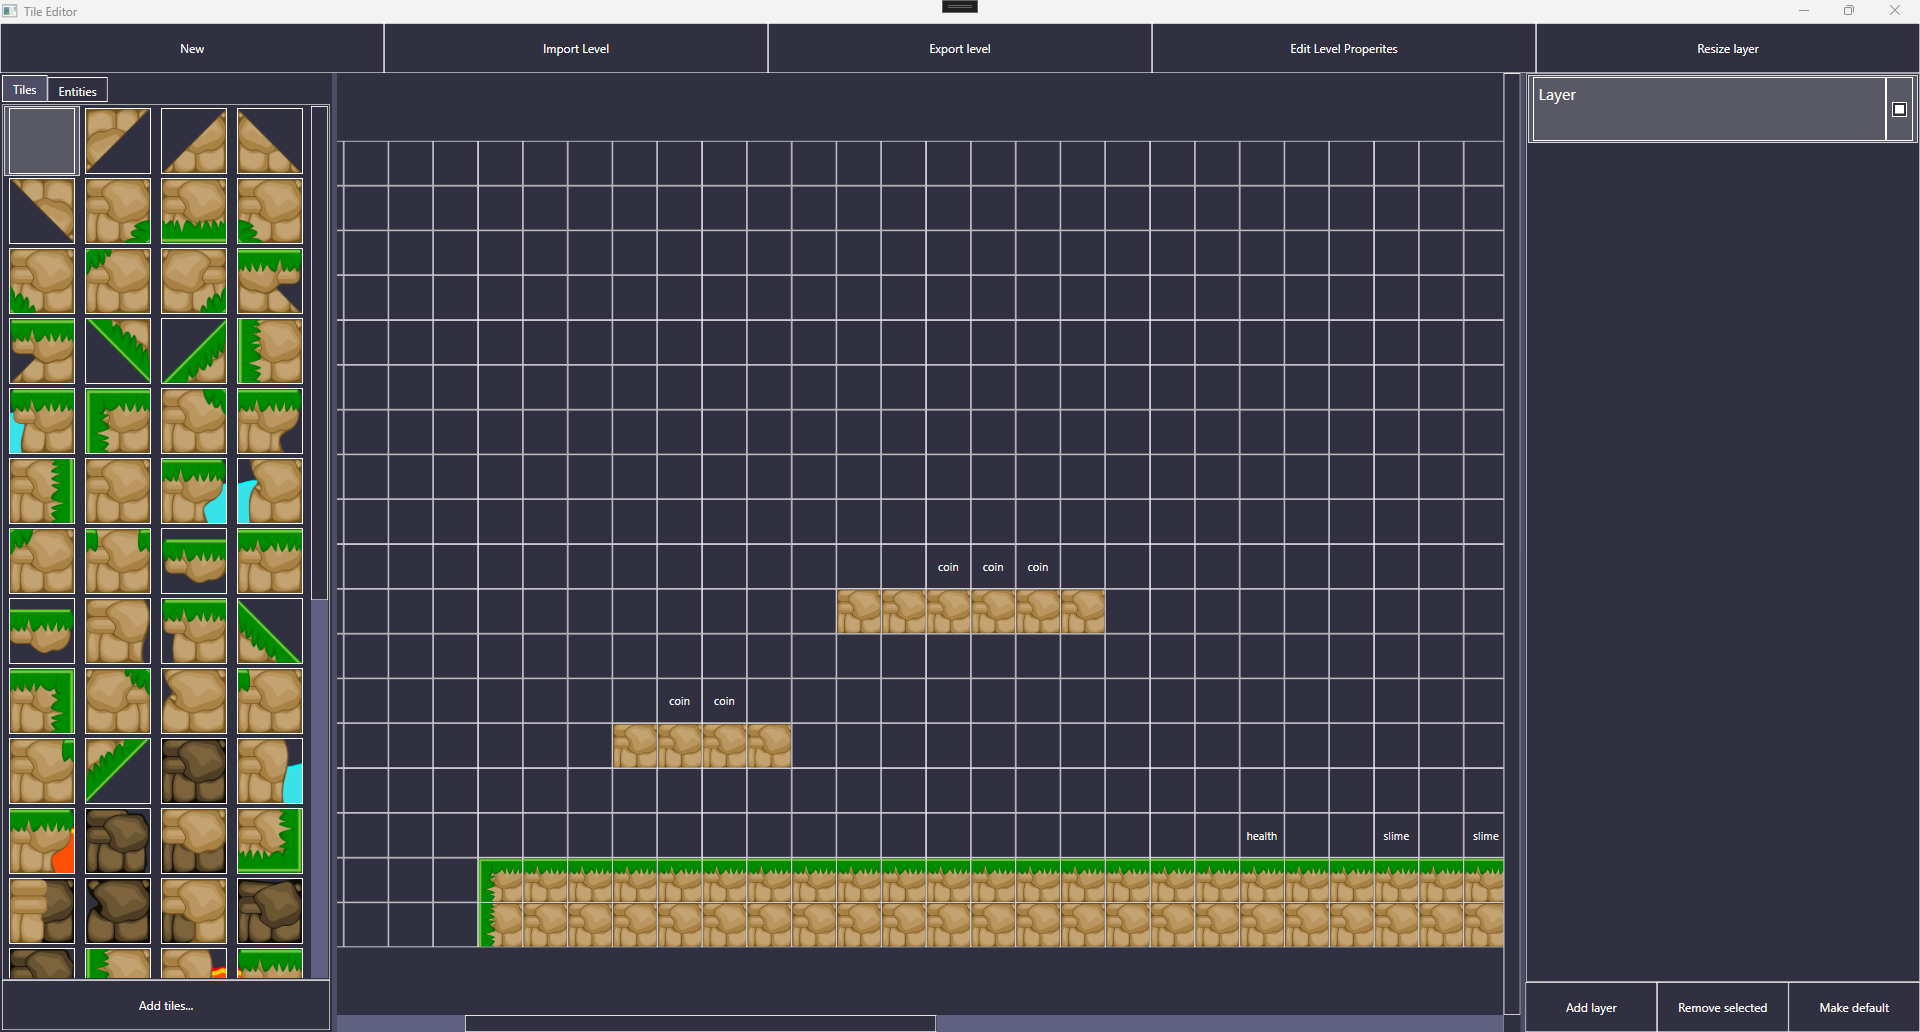
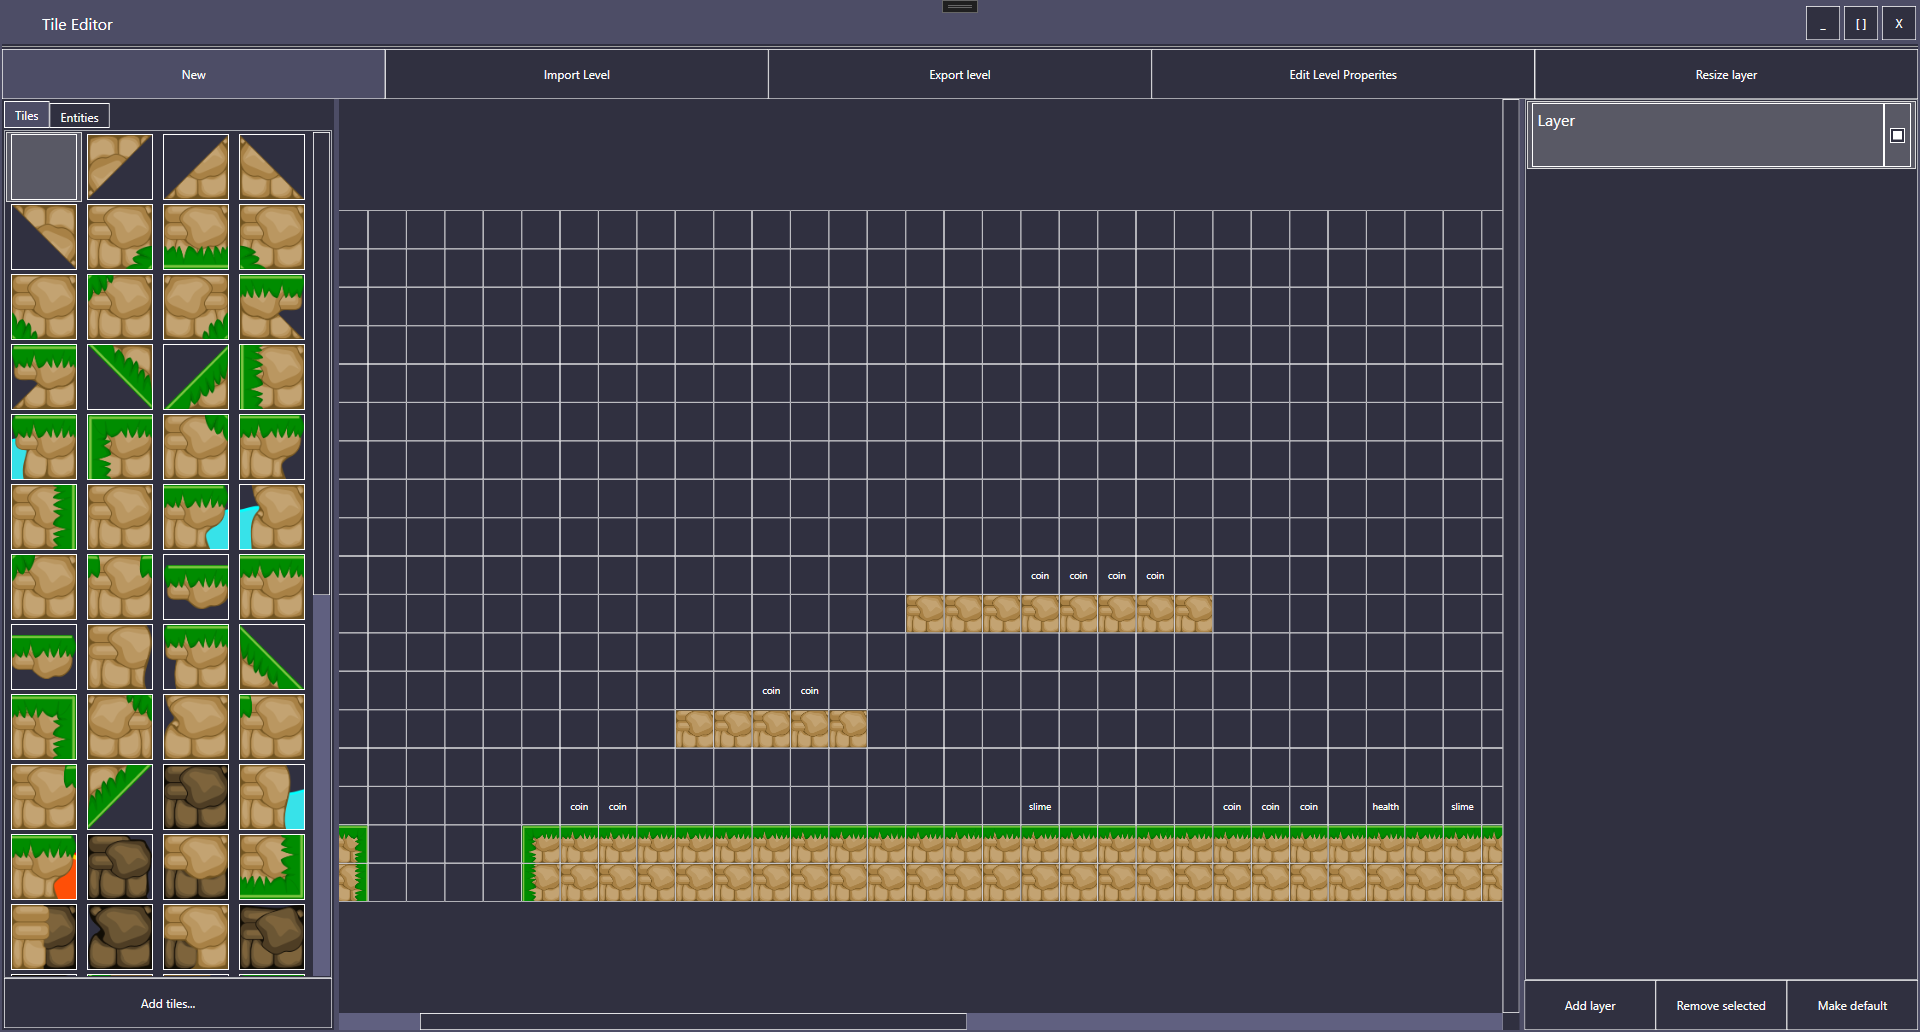
MainWindow style

diff --git a/TileEditor/MainWindow.xaml b/TileEditor/MainWindow.xaml
@@ -3,14 +3,90 @@
         xmlns:x="http://schemas.microsoft.com/winfx/2006/xaml"
         xmlns:d="http://schemas.microsoft.com/expression/blend/2008"
         xmlns:mc="http://schemas.openxmlformats.org/markup-compatibility/2006"
-        xmlns:local="clr-namespace:TileEditor"
+        xmlns:local="clr-namespace:TileEditor" xmlns:shell="http://schemas.microsoft.com/netfx/2009/xaml/presentation"
         mc:Ignorable="d"
         Title="Tile Editor" Height="450" Width="800"
         WindowState="Maximized">
 
+    <WindowChrome.WindowChrome>
+        <shell:WindowChrome CaptionHeight="42" GlassFrameThickness="0" ResizeBorderThickness="5" CornerRadius="0"/>
+    </WindowChrome.WindowChrome>
+
     <Window.DataContext>
         <local:MainWindowViewModel />
     </Window.DataContext>
+
+    <Window.Resources>
+        <Style TargetType="local:MainWindow">
+            <Style.Setters>
+                <Setter Property="WindowChrome.WindowChrome">
+                    <Setter.Value>
+                        <WindowChrome />
+                    </Setter.Value>
+                </Setter>
+
+                <Setter Property="Template">
+                    <Setter.Value>
+                        <ControlTemplate TargetType="local:MainWindow">
+                            <Border Padding="10" Background="#4D4D66">
+                                <Grid Background="#303040">
+                                    <Grid.RowDefinitions>
+                                        <RowDefinition Height="42" />
+                                        <RowDefinition Height="auto" />
+                                        <RowDefinition Height="*" />
+                                    </Grid.RowDefinitions>
+
+                                    <!-- Title bar -->
+                                    <Grid Grid.Row="0" Background="#4D4D66">
+                                        <Grid.ColumnDefinitions>
+                                            <ColumnDefinition Width="auto"/>
+                                            <ColumnDefinition Width="*"/>
+                                            <ColumnDefinition Width="auto"/>
+                                        </Grid.ColumnDefinitions>
+
+                                        <Border Grid.Column="0" Background="Transparent" Height="36" Width="36" />
+
+                                        <!-- Title -->
+                                        <StackPanel Grid.Column="1" VerticalAlignment="Center" HorizontalAlignment="Left">
+                                            <TextBlock FontSize="16" Text="{Binding RelativeSource={RelativeSource TemplatedParent}, Path=Title}"   
+                                            VerticalAlignment="Top" HorizontalAlignment="Left"
+                                            Margin="4,0,0,0"/>
+                                        </StackPanel>
+
+                                        <!-- Buttons -->
+                                        <StackPanel
+                                            WindowChrome.IsHitTestVisibleInChrome="True" 
+                                            Grid.Column="2" Orientation="Horizontal">
+
+                                            <Border Width="38" Height="38" Padding="2">
+                                                <Button Click="Minimize_Click">_</Button>
+                                            </Border>
+
+                                            <Border Width="38" Height="38" Padding="2">
+                                                <Button Click="Resize_Click">[ ]</Button>
+                                            </Border>
+
+                                            <Border Width="38" Height="38" Padding="2">
+                                                <Button Style="{StaticResource closeButton}" Click="Close_Click">X</Button>
+                                            </Border>
+                                        </StackPanel>
+                                    </Grid>
+
+                                    <Separator Grid.Row="1" />
+
+                                    <!-- content -->
+                                    <Grid Grid.Row="2">
+                                        <ContentPresenter Content="{TemplateBinding Content}" />
+                                    </Grid>
+
+                                </Grid>
+                            </Border>
+                        </ControlTemplate>
+                    </Setter.Value>
+                </Setter>
+            </Style.Setters>
+        </Style>
+    </Window.Resources>
 
     <Grid>
         <Grid.RowDefinitions>

diff --git a/TileEditor/EditorMessageBox.xaml b/TileEditor/EditorMessageBox.xaml
@@ -8,18 +8,10 @@
         WindowStartupLocation="CenterOwner">
 
     <WindowChrome.WindowChrome>
-        <shell:WindowChrome CaptionHeight="36" GlassFrameThickness="0"/>
+        <shell:WindowChrome CaptionHeight="36" GlassFrameThickness="0" CornerRadius="0"/>
     </WindowChrome.WindowChrome>
 
     <Window.Resources>
-        <Style x:Key="closeButton" TargetType="Button" BasedOn="{StaticResource {x:Type Button}}">
-            <Style.Triggers>
-                <Trigger Property="IsMouseOver" Value="True">
-                    <Setter Property="Background" Value="Red" />
-                </Trigger>
-            </Style.Triggers>
-        </Style>
-        
         <Style TargetType="local:EditorMessageBox">
             <Setter Property="Background" Value="#303040" />
             <Setter Property="SizeToContent" Value="Height" />
@@ -82,19 +74,6 @@
                     </ControlTemplate>
                 </Setter.Value>
             </Setter>
-        </Style>
-
-        <Style x:Key="CloseButtonStyle" TargetType="Button">
-            <Setter Property="Template">
-                <Setter.Value>
-                    <ControlTemplate>
-                        <Grid Width="50" Height="50">
-                            <Border Width="50" Height="50"></Border>
-                        </Grid>
-                    </ControlTemplate>
-                </Setter.Value>
-            </Setter>
-            <Setter Property="Content" Value="&#xE106;"/>
         </Style>
     </Window.Resources>
 

diff --git a/TileEditor/App.xaml b/TileEditor/App.xaml
@@ -70,6 +70,14 @@
             </Style.Triggers>
         </Style>
 
+        <Style x:Key="closeButton" TargetType="Button" BasedOn="{StaticResource {x:Type Button}}">
+            <Style.Triggers>
+                <Trigger Property="IsMouseOver" Value="True">
+                    <Setter Property="Background" Value="Red" />
+                </Trigger>
+            </Style.Triggers>
+        </Style>
+
         <Style TargetType="{x:Type ScrollViewer}">
             <Setter Property="Template">
                 <Setter.Value>

diff --git a/TileEditor/MainWindow.xaml.cs b/TileEditor/MainWindow.xaml.cs
@@ -1,25 +1,29 @@
-using System.Text;
-using System.Windows;
-using System.Windows.Controls;
-using System.Windows.Data;
-using System.Windows.Documents;
-using System.Windows.Input;
-using System.Windows.Media;
-using System.Windows.Media.Imaging;
-using System.Windows.Navigation;
-using System.Windows.Shapes;
+using System.Windows;
 
-namespace TileEditor
+namespace TileEditor;
+
+/// <summary>
+/// Interaction logic for MainWindow.xaml
+/// </summary>
+public partial class MainWindow : Window
 {
-    /// <summary>
-    /// Interaction logic for MainWindow.xaml
-    /// </summary>
-    public partial class MainWindow : Window
+    public MainWindow()
     {
-        public MainWindow()
-        {
-            InitializeComponent();
-            DataContext = new MainWindowViewModel();
-        }
+        InitializeComponent();
+    }
+
+    private void Close_Click(object sender, RoutedEventArgs e)
+    {
+        Close();
+    }
+
+    private void Resize_Click(object sender, RoutedEventArgs e)
+    {
+        this.WindowState ^= WindowState.Maximized;
+    }
+
+    private void Minimize_Click(object sender, RoutedEventArgs e)
+    {
+        this.WindowState = WindowState.Minimized;
     }
 }
